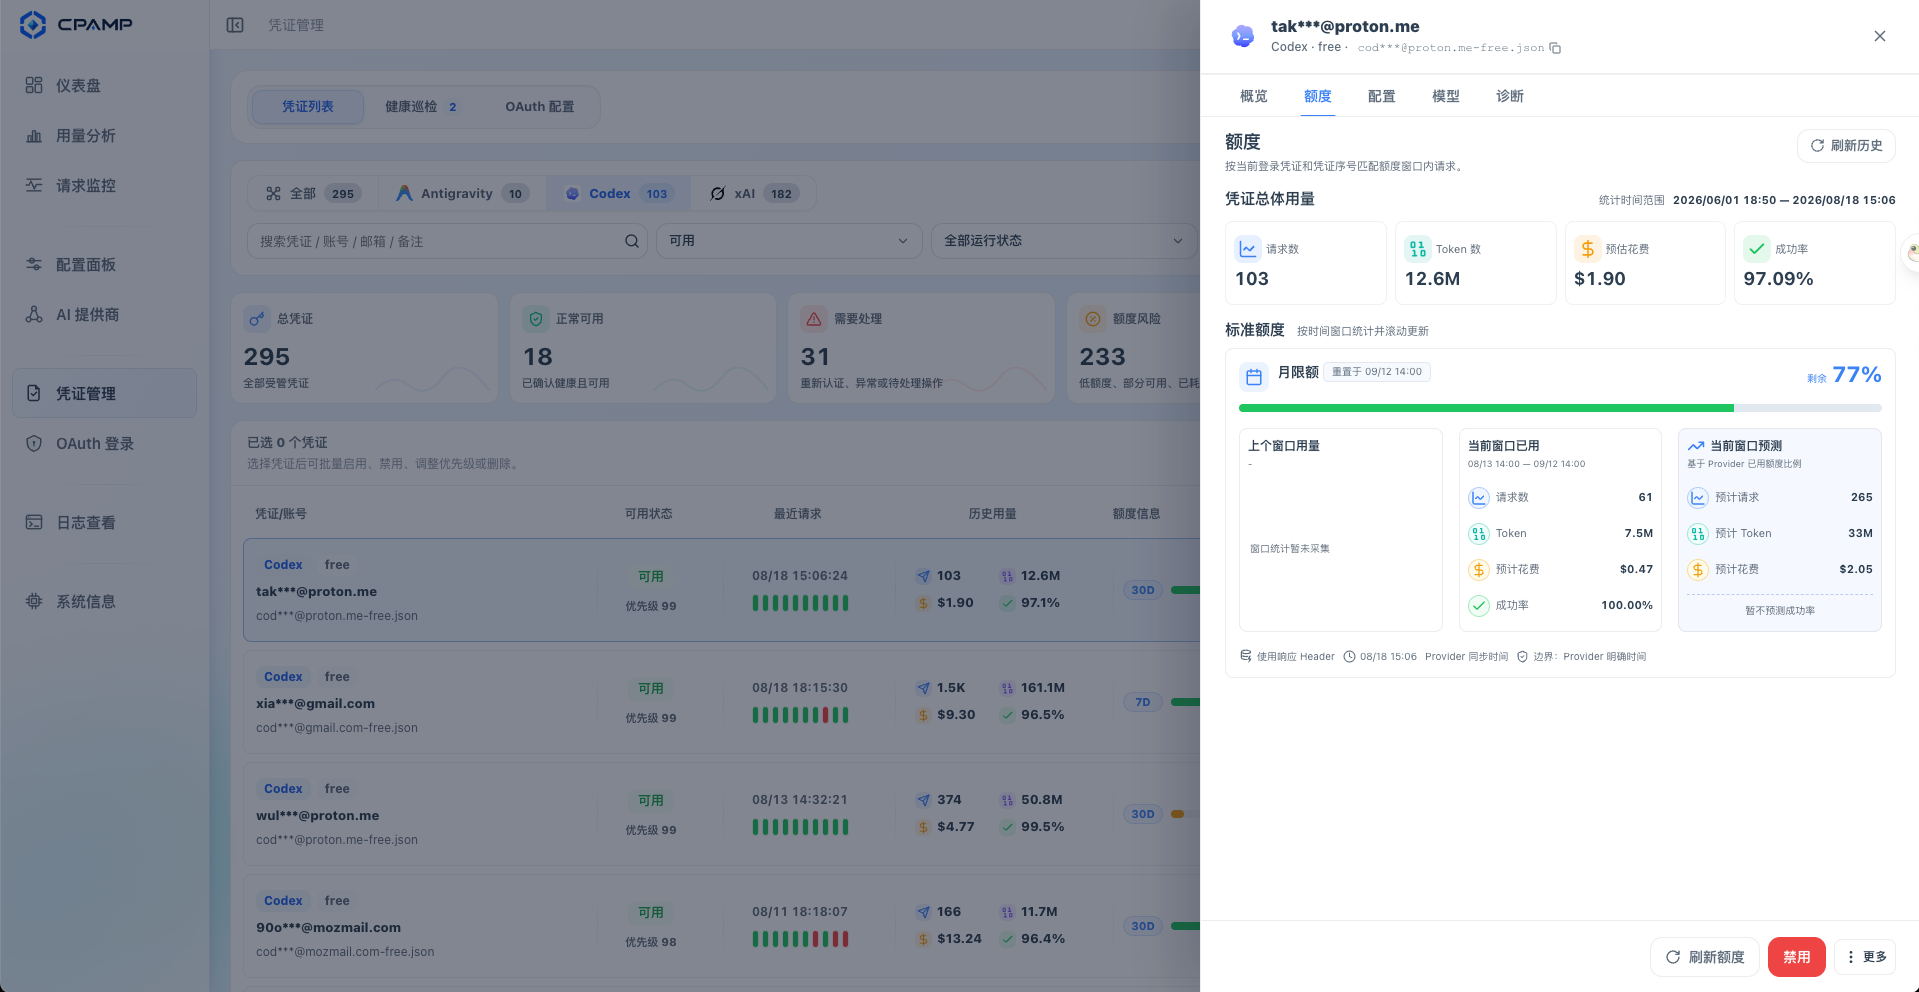
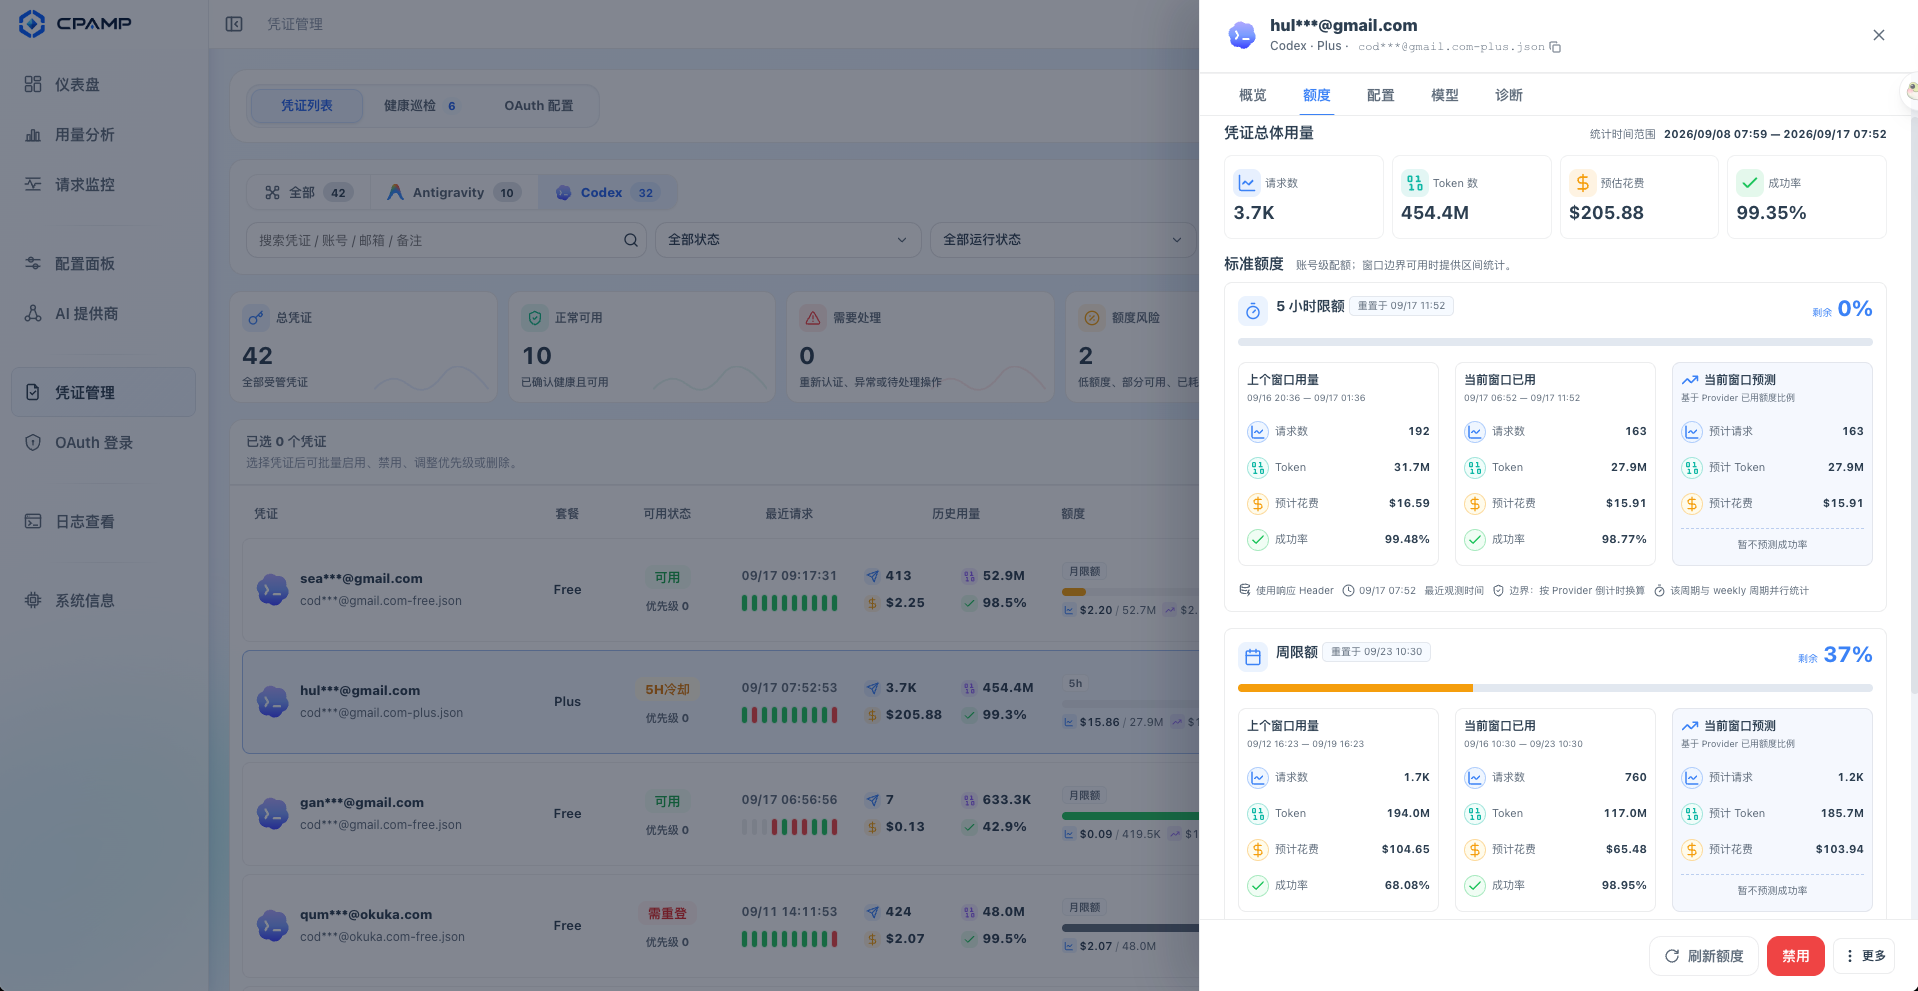
📝 docs(readme): refresh credential screenshots
Refresh the bilingual README screenshot gallery with the current credential list, card, detail, health, and quota views.\n\nAdd the new English and Chinese assets and update the quota previews so the repository entry points reflect the current Accounts experience. Documentation and image assets only; no runtime behavior or configuration changes.

diff --git a/README.md b/README.md
@@ -45,8 +45,18 @@ Operate providers, credentials, OAuth, plugins, and configuration while keeping 
       <img src="img/usage-analytics.png" alt="CPA usage and cost analytics by model and account" width="420">
     </td>
     <td align="center">
-      <strong>Credential Management</strong><br>
-      <img src="img/credential.png" alt="CPA credential management list with availability, usage, quota, and actions" width="420">
+      <strong>Credential List</strong><br>
+      <img src="img/credential-table.png" alt="CPA credential list with availability, usage, quota, and actions" width="420">
+    </td>
+  </tr>
+  <tr>
+    <td align="center">
+      <strong>Credential Cards</strong><br>
+      <img src="img/credential-card.png" alt="CPA credential cards with health, usage, quota, and actions" width="420">
+    </td>
+    <td align="center">
+      <strong>Credential Detail</strong><br>
+      <img src="img/credential-detail.png" alt="CPA credential detail with availability, quota, status, and request activity" width="420">
     </td>
   </tr>
   <tr>
@@ -56,7 +66,7 @@ Operate providers, credentials, OAuth, plugins, and configuration while keeping 
     </td>
     <td align="center">
       <strong>Credential Quota</strong><br>
-      <img src="img/credential-quota.png" alt="CPA credential quota usage, current window, and forecast" width="420">
+      <img src="img/credential-quota.png" alt="CPA credential quota windows, usage, forecasts, and reset evidence" width="420">
     </td>
   </tr>
 </table>

diff --git a/README_CN.md b/README_CN.md
@@ -43,8 +43,18 @@
       <img src="img/usage-analytics-zh.png" alt="CPA 按模型和账号拆解用量与成本" width="420">
     </td>
     <td align="center">
-      <strong>凭证管理</strong><br>
-      <img src="img/credential-zh.png" alt="CPA 凭证管理列表、可用状态、用量、配额和操作" width="420">
+      <strong>凭证列表</strong><br>
+      <img src="img/credential-table-zh.png" alt="CPA 凭证列表、可用状态、用量、配额和操作" width="420">
+    </td>
+  </tr>
+  <tr>
+    <td align="center">
+      <strong>凭证卡片</strong><br>
+      <img src="img/credential-card-zh.png" alt="CPA 凭证卡片、健康状态、用量、配额和操作" width="420">
+    </td>
+    <td align="center">
+      <strong>凭证详情</strong><br>
+      <img src="img/credential-detail-zh.png" alt="CPA 凭证详情、可用状态、配额、状态和请求活动" width="420">
     </td>
   </tr>
   <tr>
@@ -54,7 +64,7 @@
     </td>
     <td align="center">
       <strong>凭证配额</strong><br>
-      <img src="img/credential-quota-zh.png" alt="CPA 凭证配额用量、当前窗口和预测" width="420">
+      <img src="img/credential-quota-zh.png" alt="CPA 凭证配额窗口、用量、预测和重置证据" width="420">
     </td>
   </tr>
 </table>
